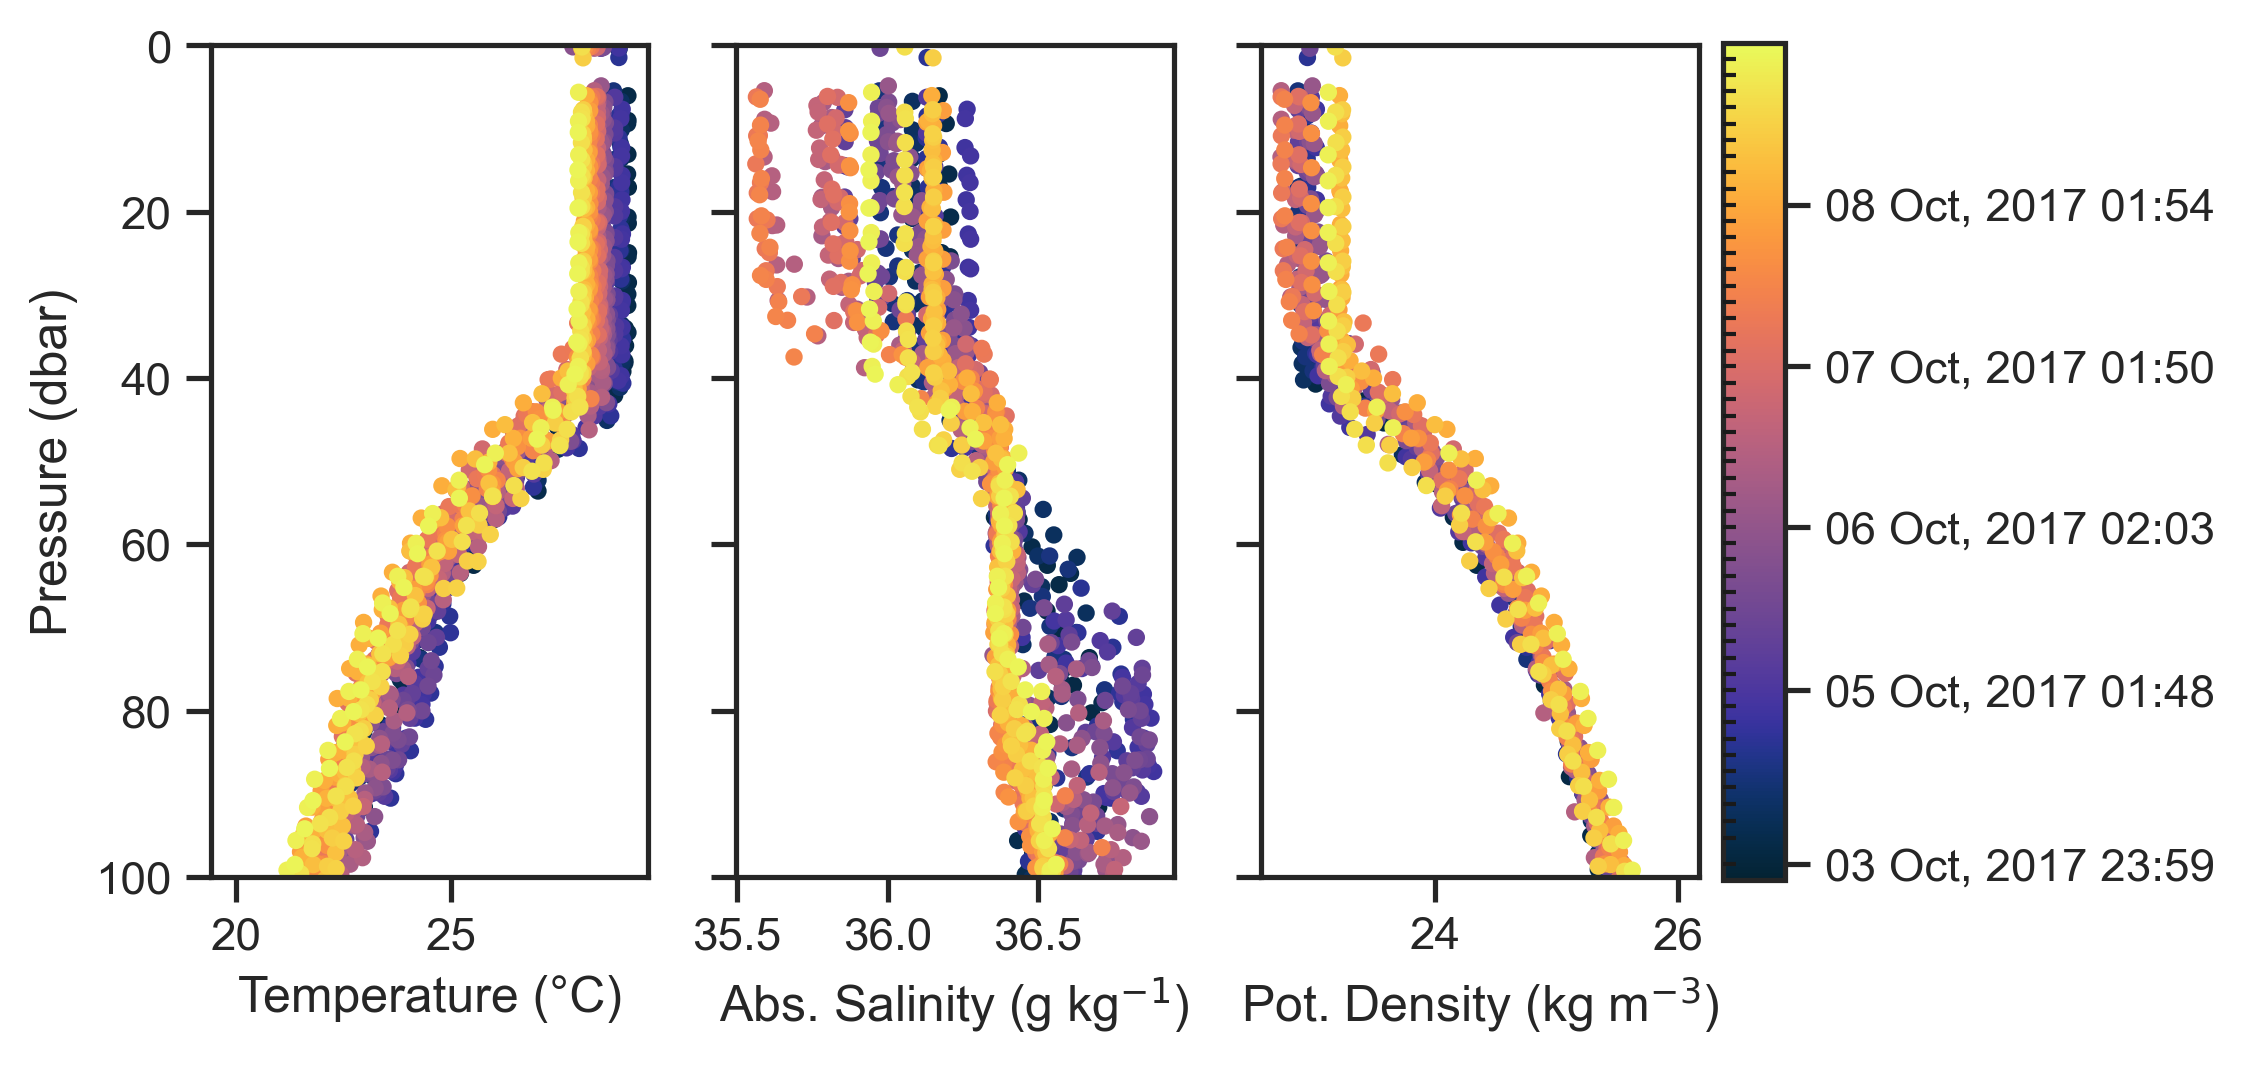
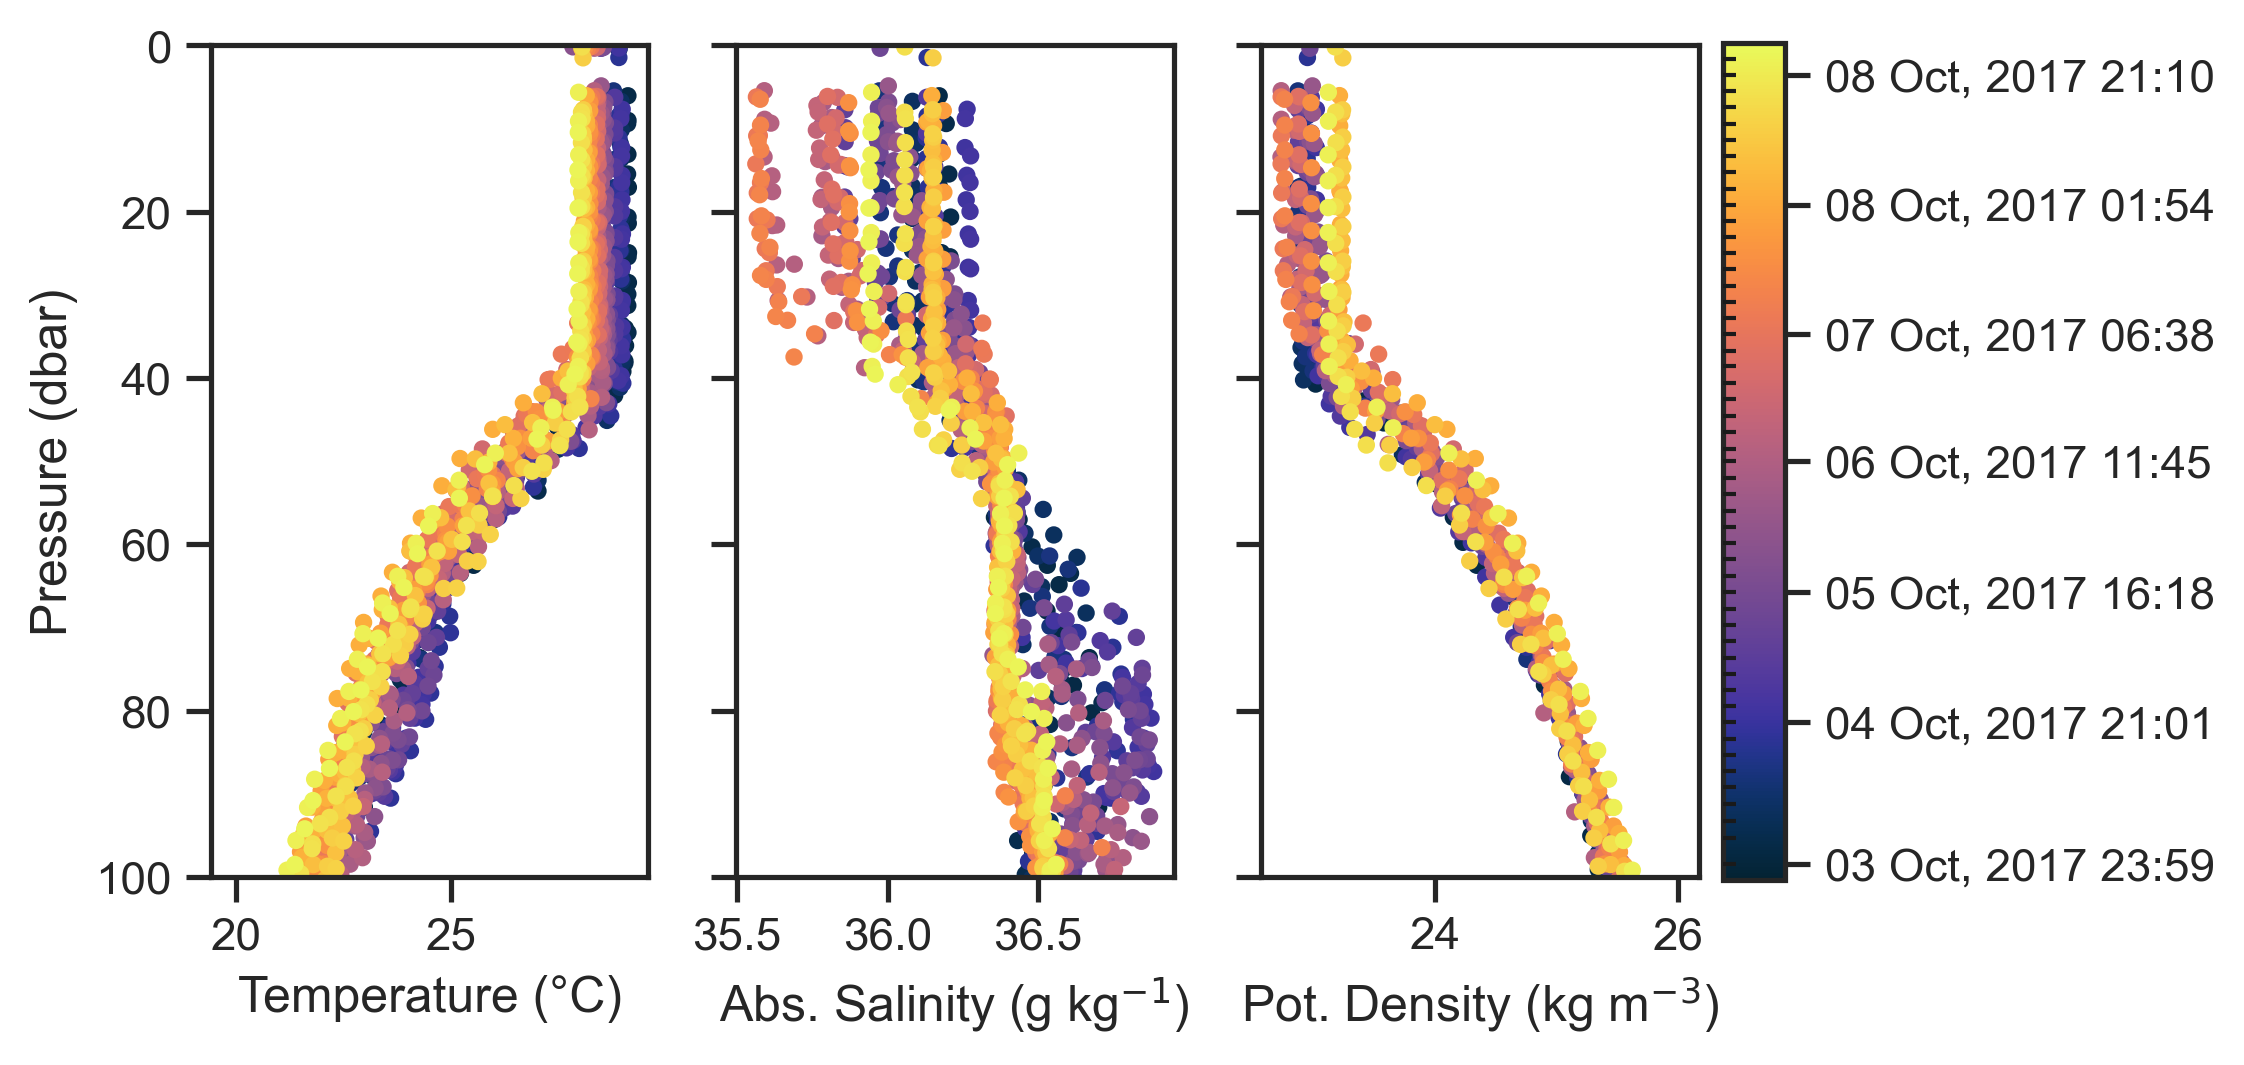
better colorbar for float of interest

diff --git a/src/gomri/nate_plot.py b/src/gomri/nate_plot.py
@@ -12,14 +12,14 @@ import cmocean.cm as cmo
 
 import gsw
 
-data_files = Path('../../data/gomri/').glob('*.nc')
+data_files = list(Path('../../data/gomri/').glob('*.nc'))
 # time for Hurricane Nate + a 1 day on each end
 storm_range = [
     pd.Timestamp(year=2017, month=10, day=3), 
     pd.Timestamp(year=2017, month=10, day=9)
 ]
 
-for fn in data_files:
+for fn in [data_files[-3]]:
     nc = Dataset(fn)
     # build dataframe
     df = pd.DataFrame(dict(
@@ -63,7 +63,7 @@ for fn in data_files:
     date_ts = [pd.Timestamp(t, unit='D') - pd.Timedelta(days=365.25*20) for t in dates]
     date_labels = [t.strftime('%d %b, %Y %H:%M') for t in date_ts]
 
-    N = 10
+    N = 8
     rect = [0.9125, 0.1075, 0.0325, 0.775]
     cax = fig.add_axes(rect)
     cax2 = fig.add_axes(rect)
